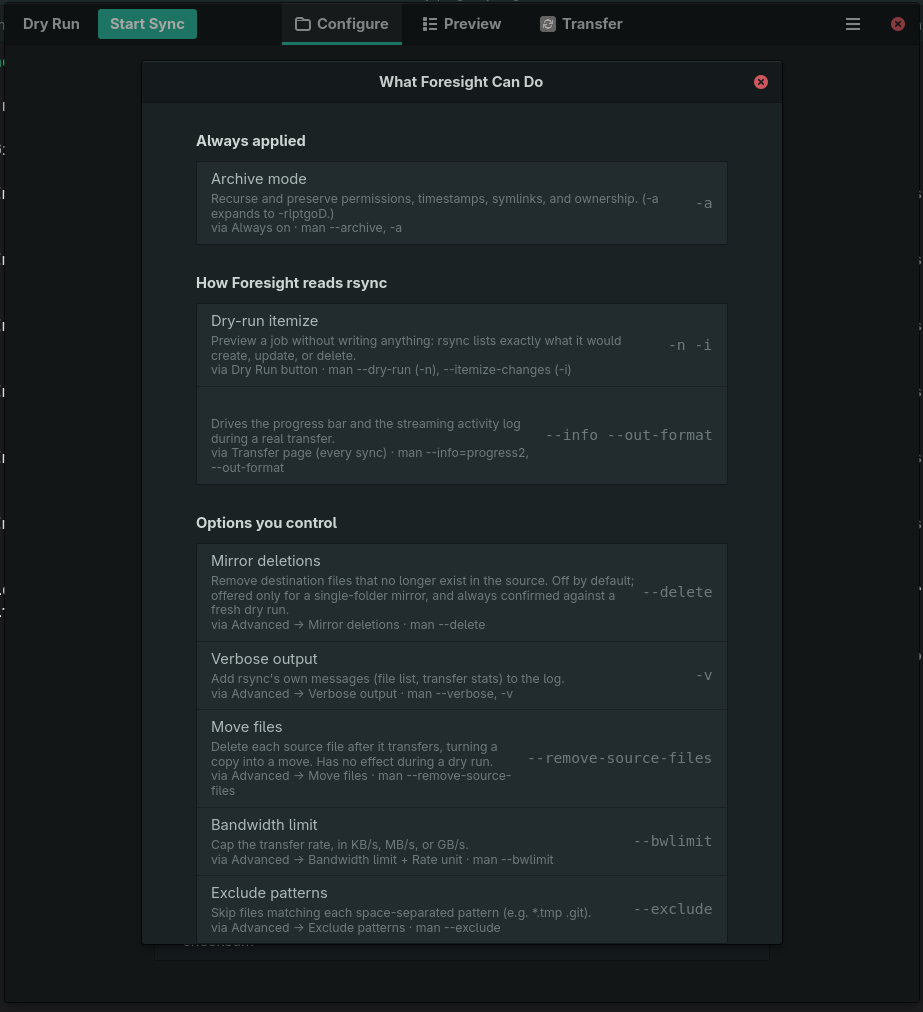
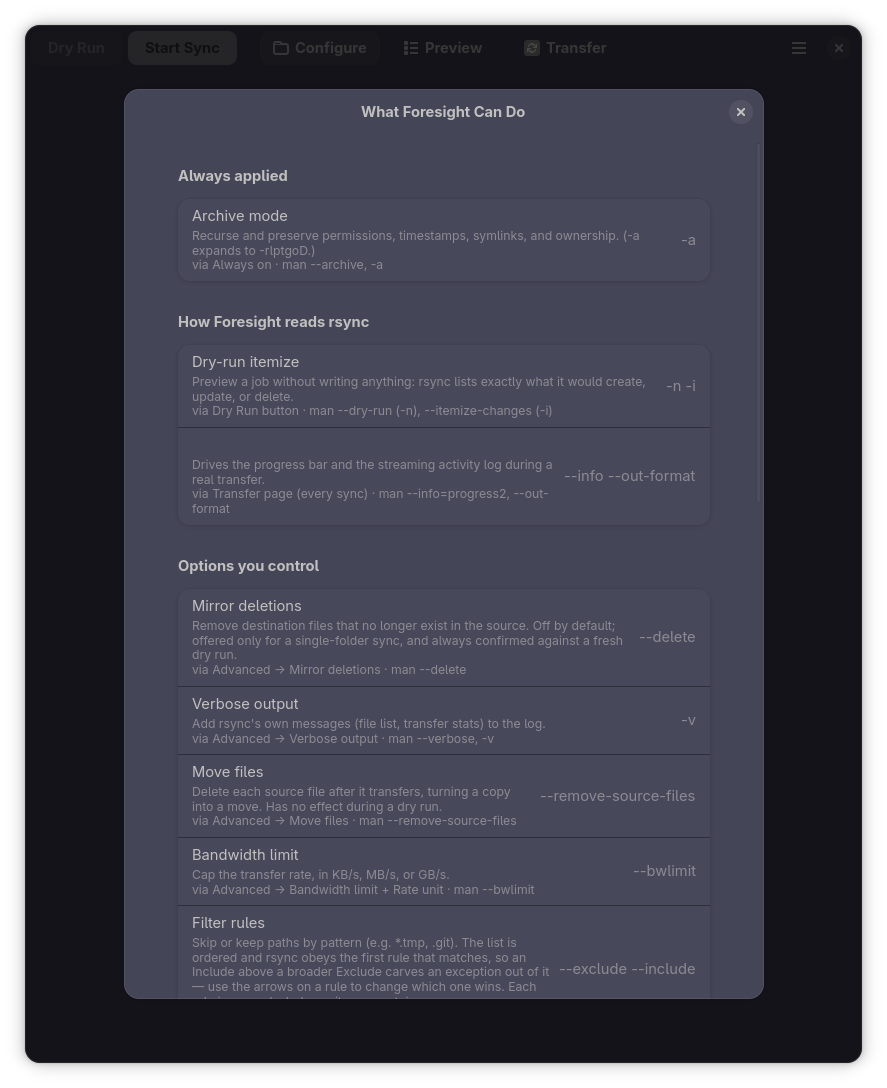
docs: 1.0 screenshots, and a guard for the row they nearly hid
Retaken for 1.0: Configure (both remote buttons are new), Advanced (Exclude
patterns is Filter rules now), the capability list and the boundary section
(which gains the SSH correction), plus a first shot of the remote endpoint
dialog. Preview is unchanged and keeps its old image. Captions in the site
gallery and the metainfo follow, and the remote shot joins the AppStream set.

The widget check came out of reading the Advanced screenshot: Filter rules
looked open with nothing inside it, which would have meant the only way to add
a rule did not render. It turned out to be a closed expander in a small glyph,
but the scare was worth a permanent check, because nothing else would have
caught the real version of it — every existing test drives the model directly,
so the editor could have been completely unreachable on screen while all of
them passed.

Getting that check to mean anything took three tries, each a false negative
worth recording: a child of an ExpanderRow is unmapped while the reveal
animates, is unmapped again if any ancestor expander is closed (Filter rules
sits inside Advanced, which has no id in the Blueprint, so it has to be found
by walking up), and "unmapped" is meaningless without a control widget proving
the window is on screen at all. It now switches animations off, opens every
expander above it, pumps the loop for real time, and compares against a row
that is unconditionally visible.

diff --git a/docs/index.html b/docs/index.html
@@ -142,7 +142,8 @@
   <p class="sub">A GNOME-native window, driven entirely by the bundled rsync. Click any shot to enlarge.</p>
   <div class="gallery">
     <a class="shot" href="#s1"><img src="screenshots/01-configure.png" alt="Foresight Configure page" loading="lazy"><span class="cap">Configure — add sources and a destination.</span></a>
-    <a class="shot" href="#s2"><img src="screenshots/02-advanced.png" alt="Advanced options expanded" loading="lazy"><span class="cap">Advanced — move, unit-aware bandwidth limit, excludes, extra flags.</span></a>
+    <a class="shot" href="#s7"><img src="screenshots/07-rsync-ssh.png" alt="Remote endpoint dialog" loading="lazy"><span class="cap">Remote sync over SSH — keys come from your agent, never the sandbox.</span></a>
+    <a class="shot" href="#s2"><img src="screenshots/02-advanced.png" alt="Advanced options expanded" loading="lazy"><span class="cap">Advanced — move, unit-aware bandwidth limit, filter rules, extra flags.</span></a>
     <a class="shot" href="#s3"><img src="screenshots/03-preview.png" alt="Grouped change preview" loading="lazy"><span class="cap">Preview — every change, grouped, before it runs.</span></a>
     <a class="shot" href="#s4"><img src="screenshots/04-help.png" alt="What Foresight Can Do dialog" loading="lazy"><span class="cap">“What Foresight Can Do” — an honest, in-app capability list.</span></a>
     <a class="shot" href="#s5"><img src="screenshots/05-transparency.png" alt="Capability boundary and versions" loading="lazy"><span class="cap">Nothing hidden — the boundary of what's exposed, and exact versions.</span></a>
@@ -150,7 +151,8 @@
   </div>
 
   <div class="lb" id="s1"><a class="lb-inner" href="#screens"><img src="screenshots/01-configure.png" alt="Foresight Configure page, enlarged"></a></div>
-  <div class="lb" id="s2"><a class="lb-inner" href="#screens"><img src="screenshots/02-advanced.png" alt="Advanced options, enlarged"></a></div>
+  <div class="lb" id="s7"><a class="lb-inner" href="#screens"><img src="screenshots/07-rsync-ssh.png" alt="Remote endpoint dialog"></a></div>
+<div class="lb" id="s2"><a class="lb-inner" href="#screens"><img src="screenshots/02-advanced.png" alt="Advanced options, enlarged"></a></div>
   <div class="lb" id="s3"><a class="lb-inner" href="#screens"><img src="screenshots/03-preview.png" alt="Grouped change preview, enlarged"></a></div>
   <div class="lb" id="s4"><a class="lb-inner" href="#screens"><img src="screenshots/04-help.png" alt="What Foresight Can Do dialog, enlarged"></a></div>
   <div class="lb" id="s5"><a class="lb-inner" href="#screens"><img src="screenshots/05-transparency.png" alt="Capability boundary and versions, enlarged"></a></div>

diff --git a/crates/foresight/src/window.rs b/crates/foresight/src/window.rs
@@ -1711,6 +1711,57 @@ impl ForesightWindow {
             format!("{:?}", kinded(self)),
         );
 
+        // The add-rule row must actually appear when the expander is opened.
+        // It is the only way to add a rule, so if it does not render the whole
+        // editor is unreachable while looking perfectly fine — which is exactly
+        // what a screenshot of an open-but-empty expander would show.
+        {
+            let imp = self.imp();
+            // AdwExpanderRow reveals its rows through an animation, so a child
+            // is legitimately unmapped for a few frames after set_expanded.
+            // Turn animations off and then pump the loop for real time, or this
+            // check measures the animation rather than the widget tree.
+            if let Some(settings) = gtk::Settings::default() {
+                settings.set_gtk_enable_animations(false);
+            }
+            // Filter rules lives inside the Advanced expander, which has no id
+            // in the Blueprint — walk up and open every expander above it, or
+            // the child is unmapped because its parent is closed, not because
+            // anything is wrong with it.
+            let mut ancestor = imp.filters_row.parent();
+            while let Some(w) = ancestor {
+                if let Some(exp) = w.downcast_ref::<adw::ExpanderRow>() {
+                    exp.set_expanded(true);
+                }
+                ancestor = w.parent();
+            }
+            imp.filters_row.set_expanded(true);
+
+            let ctx = glib::MainContext::default();
+            let elapsed = std::rc::Rc::new(std::cell::Cell::new(false));
+            glib::timeout_add_local_once(std::time::Duration::from_millis(600), {
+                let elapsed = elapsed.clone();
+                move || elapsed.set(true)
+            });
+            while !elapsed.get() {
+                ctx.iteration(true);
+            }
+            // Compared against a control that is unconditionally on screen, so
+            // "not mapped" cannot be an artefact of the window not being up yet.
+            let control = imp.dest_row.is_mapped();
+            check(
+                "the add-rule entry renders when the expander is open",
+                !control || (imp.filter_entry.is_mapped() && imp.filter_kind.is_mapped()),
+                format!(
+                    "control(dest_row)={control}, filters_row mapped={}, entry mapped={} dropdown mapped={} expanded={}",
+                    imp.filters_row.is_mapped(),
+                    imp.filter_entry.is_mapped(),
+                    imp.filter_kind.is_mapped(),
+                    imp.filters_row.is_expanded()
+                ),
+            );
+        }
+
         // The path a user actually takes: type a pattern, pick a kind, apply.
         // Everything above calls `add_filter` directly, so without this the
         // dropdown could be wired to nothing and every check would still pass.
